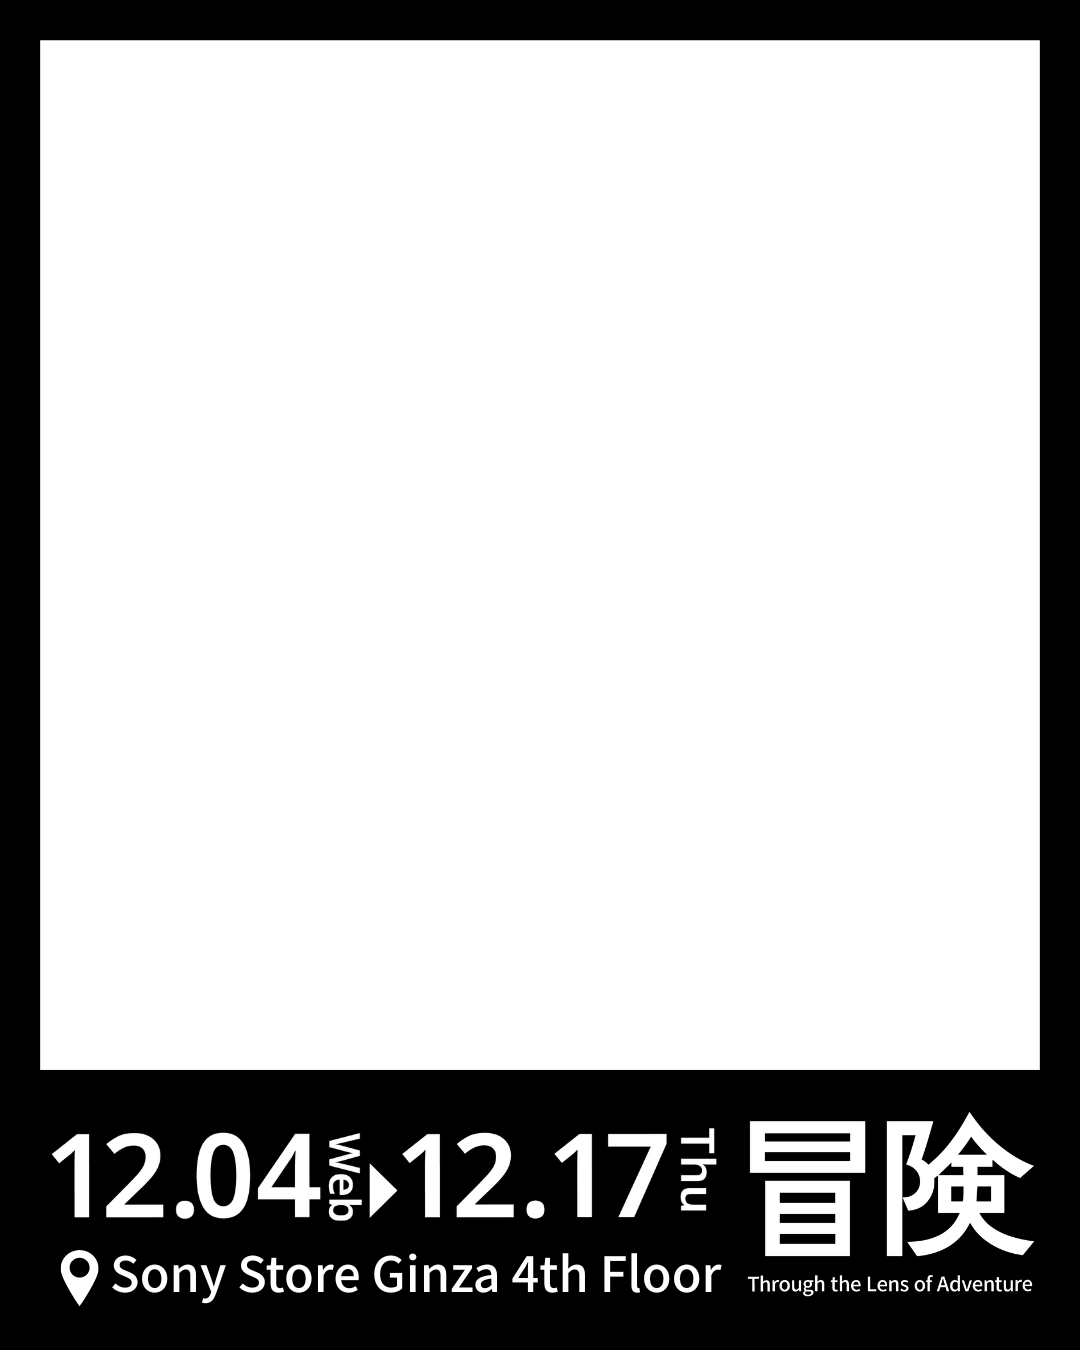
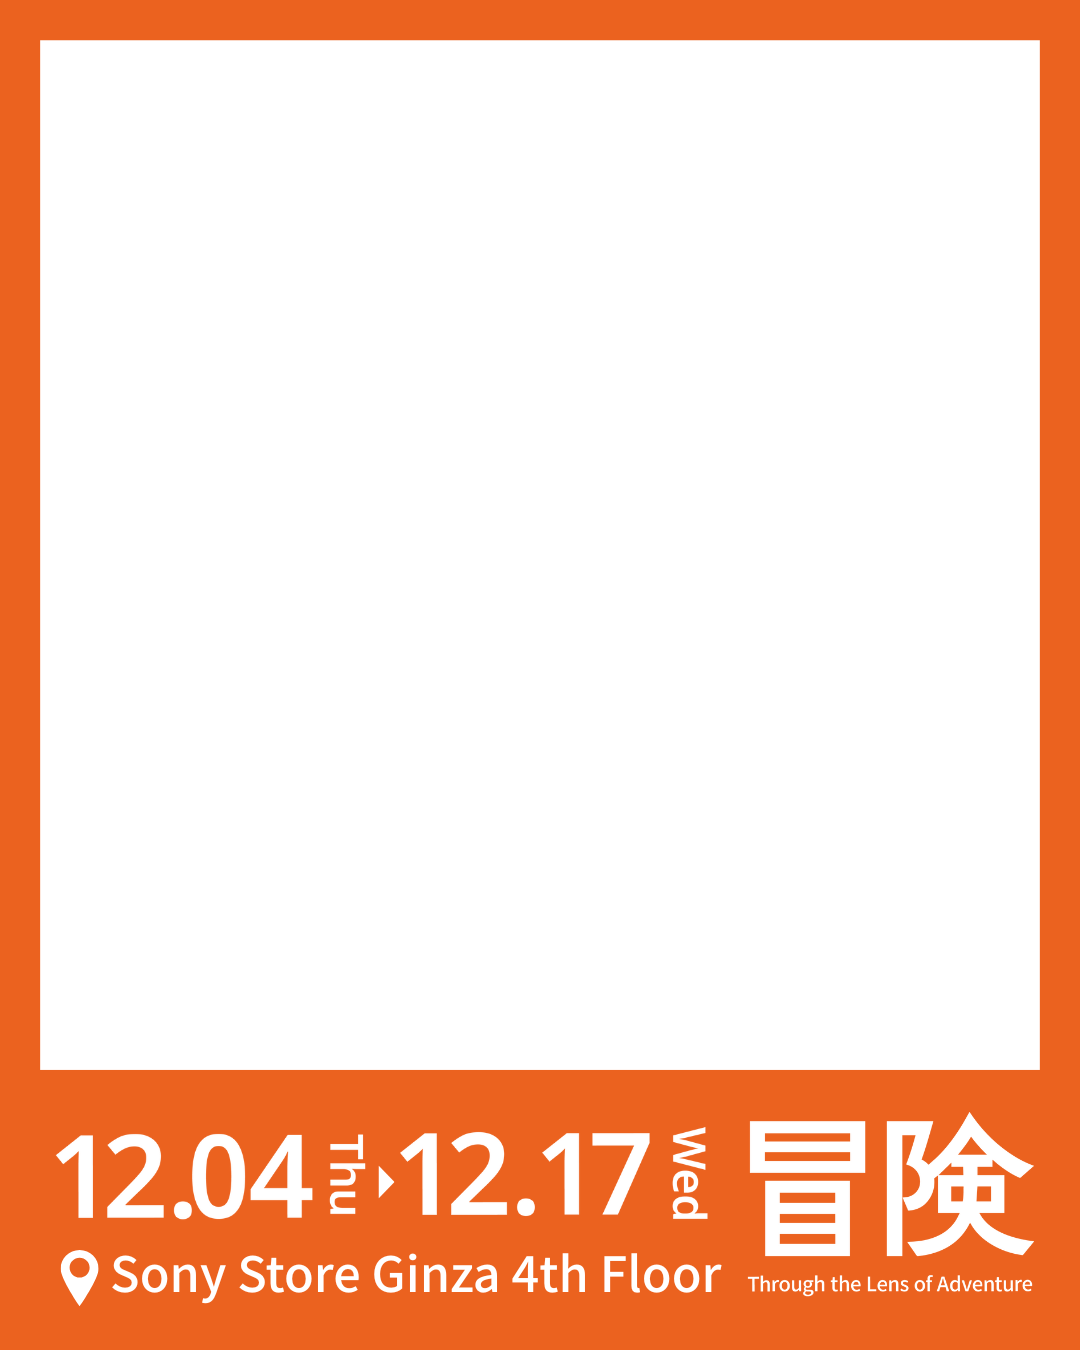
フレーム確定版

Changed region(s): [[0.0, 0.0, 1.0, 1.0]]

diff --git a/src/app/frame/page.tsx b/src/app/frame/page.tsx
@@ -42,6 +42,33 @@ const FRAMES: Frame[] = [
         innerWidth: 998,
         innerHeight: 1030,
     },
+    {
+        id: "frame4",
+        src: "/frames/frame4.png",
+        label: "冒険フレーム D",
+        innerX: 41,
+        innerY: 41,
+        innerWidth: 998,
+        innerHeight: 1030,
+    },
+    {
+        id: "frame5",
+        src: "/frames/frame5.png",
+        label: "冒険フレーム E",
+        innerX: 41,
+        innerY: 41,
+        innerWidth: 998,
+        innerHeight: 1030,
+    },
+    {
+        id: "frame6",
+        src: "/frames/frame6.png",
+        label: "冒険フレーム F",
+        innerX: 41,
+        innerY: 41,
+        innerWidth: 998,
+        innerHeight: 1030,
+    },
 ];
 
 type Offset = { x: number; y: number };
